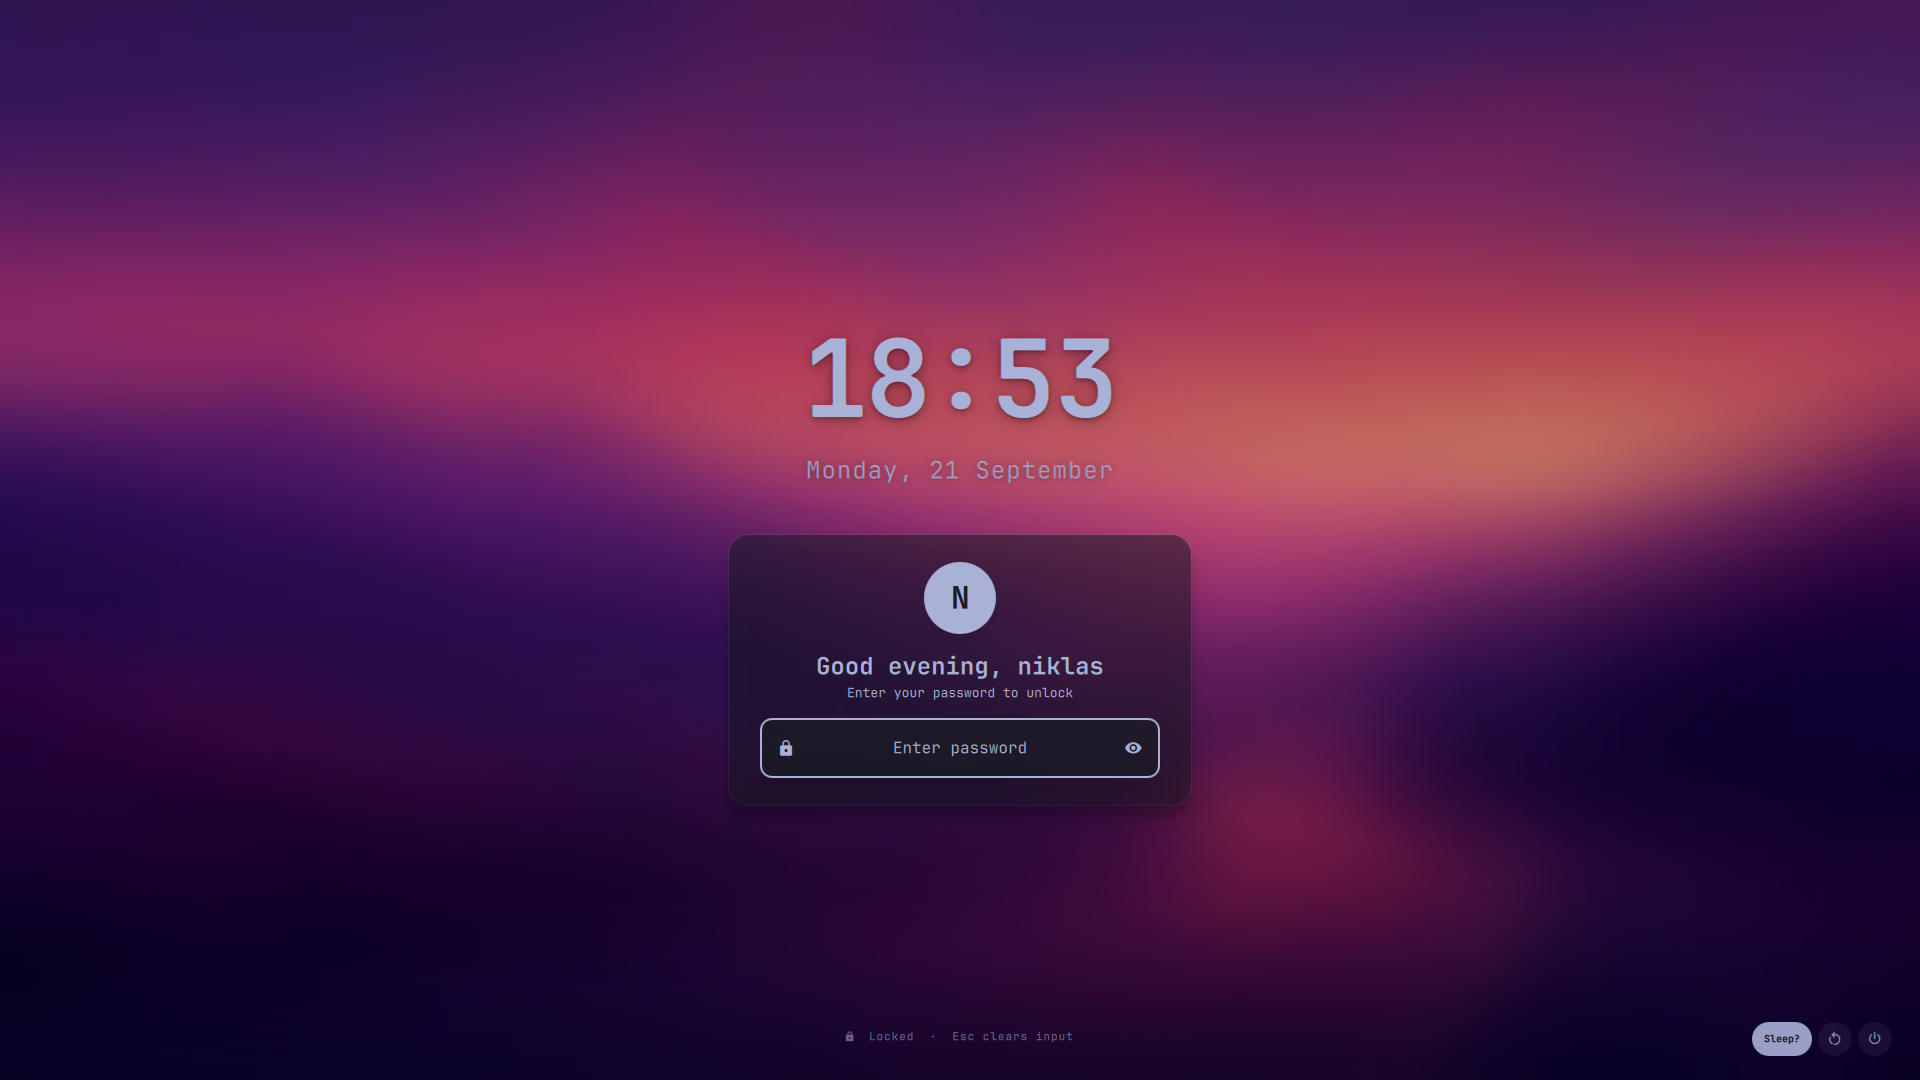
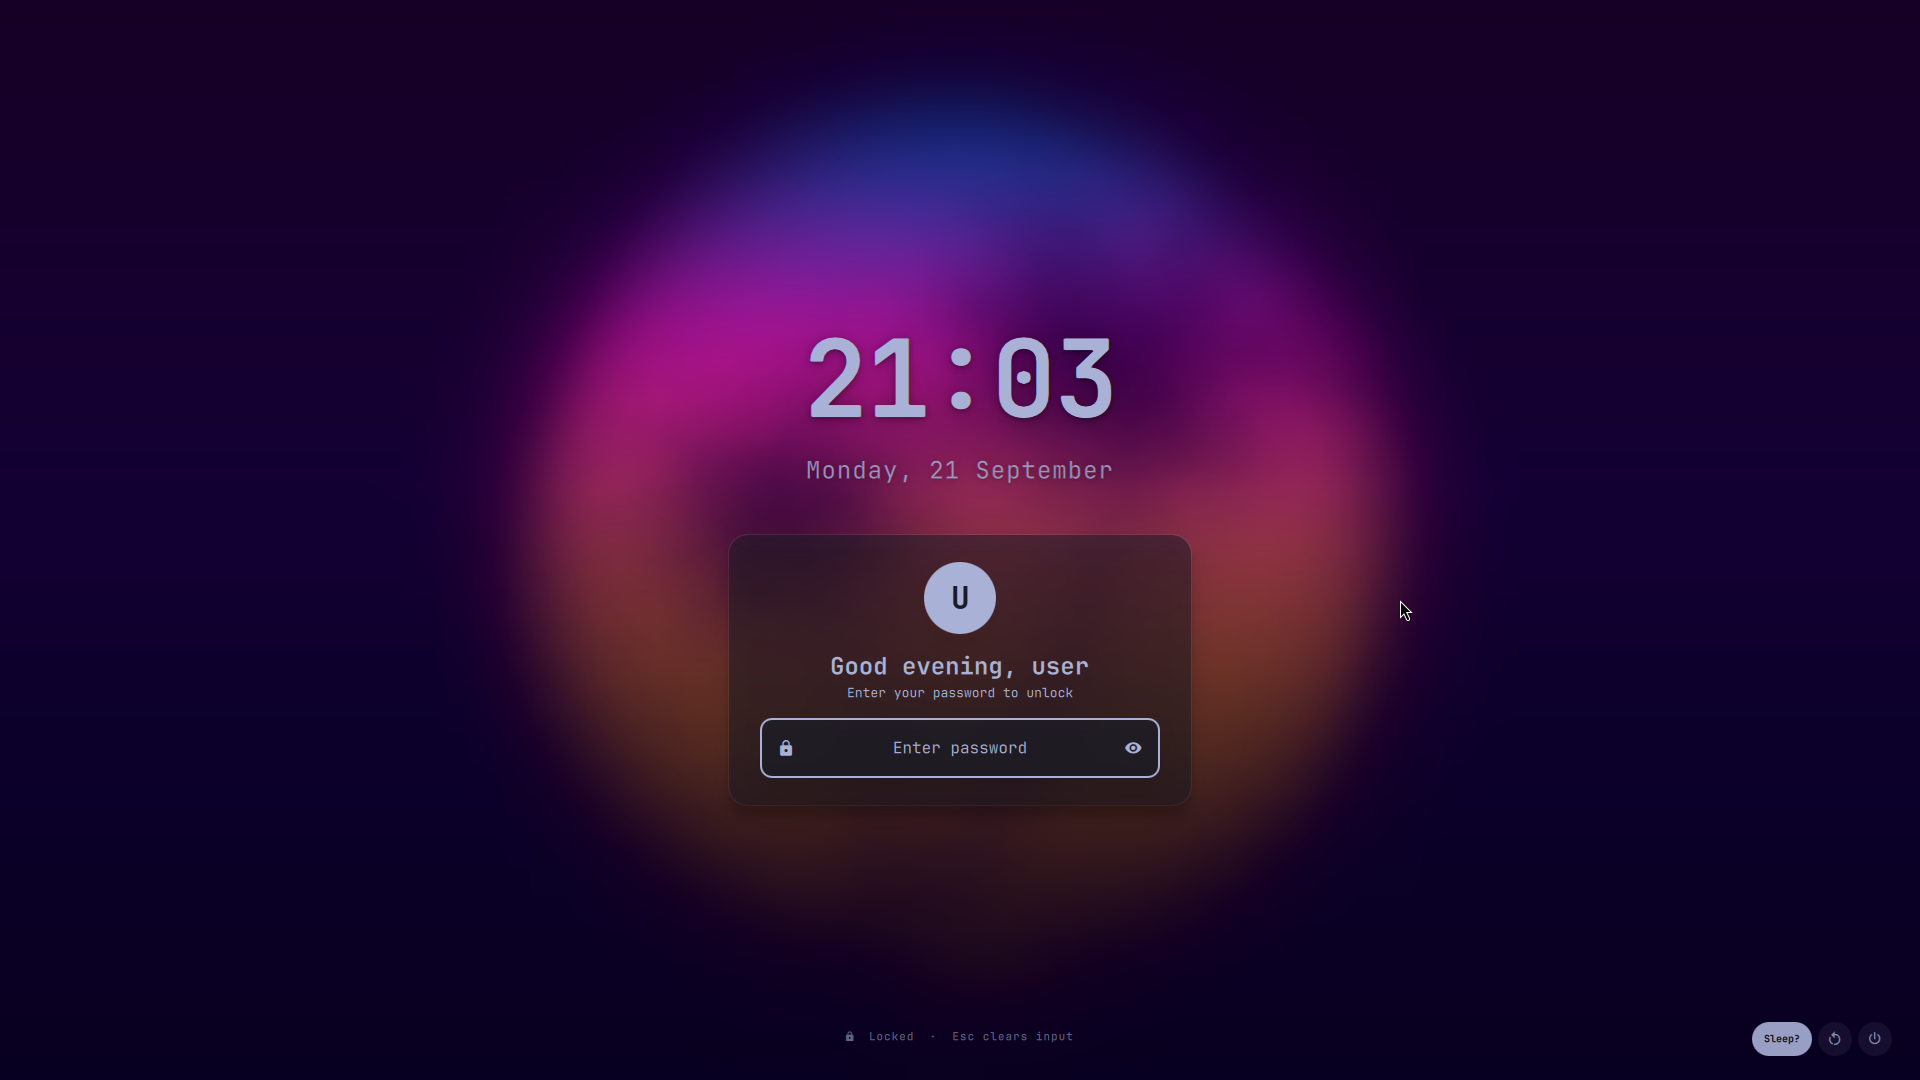
Drop the design count from the README, retake two release shots
The count went stale with every new design. The fingerprint and power
button screenshots are retaken with the account shown as "user".

diff --git a/README.md b/README.md
@@ -1,12 +1,12 @@
 # Lock Screen Explorer
 
-54 lock screens for Omarchy 4, an explorer to preview and switch between them, and a designer to
+Lock screens for Omarchy 4, an explorer to preview and switch between them, and a designer to
 build your own. Unlock with your password, a FIDO2 security key, a fingerprint or your face.
 Colors and fonts follow your Omarchy theme.
 
 ![The explorer browsing designs and opening a full screen preview](media/explorer.gif)
 
-- **54 designs**, from minimal to animated, typing-reactive, drawn by Omarchy's own ttfx, and video clips that play as you unlock
+- **Designs** from minimal to animated, typing-reactive, drawn by Omarchy's own ttfx, and video clips that play as you unlock
 - **Security key, fingerprint and face unlock** next to the password
 - **A visual designer** for your own layouts, or write the QML yourself
 - **Unlock animations** that fade, zoom or rise the lock screen away
